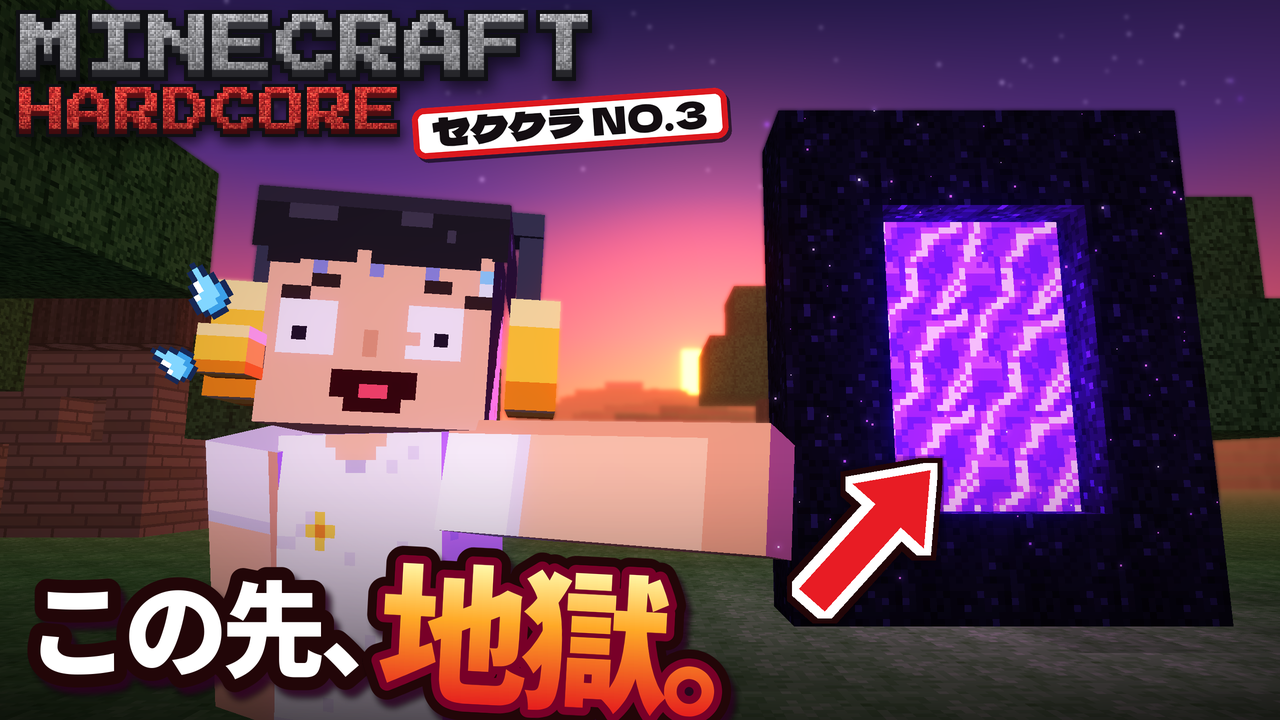
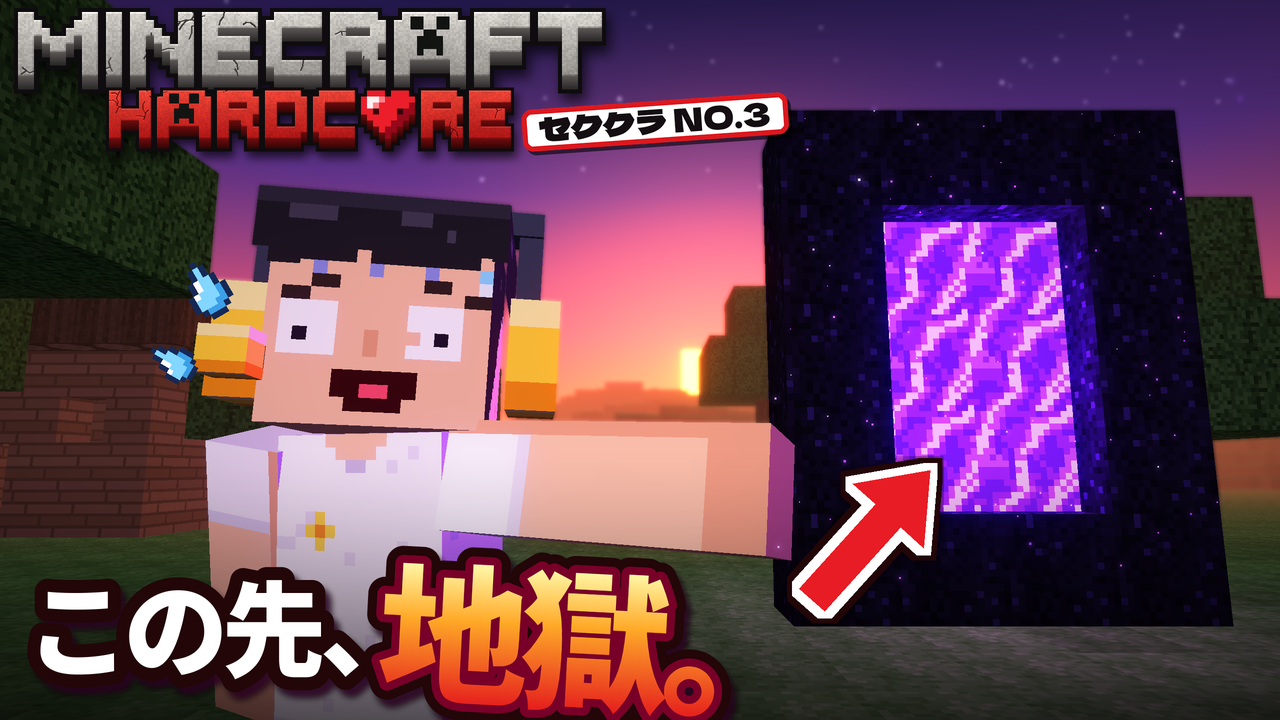
NO.3 の英字タイトルを、ひびの入った石の立体ロゴ風に作り直し
- 「MINECRAFT」を太いブロック文字＋下向きの厚み＋黒フチ＋ひびの入った石の質感に
- A の中にクリーパーの顔、赤い「HARDCORE」の O はハードコアのハートに
- HARDCORE は MINECRAFT の下のまん中に置き、セククラ NO.3 のバッジを少し小さくしてゲートにかからないように
- 使わなくなったドットフォント（Press Start 2P）と古い石ブロック文字のコードを削除

Claude-Session: https://claude.ai/code/session_01ARLGywnTjgvutUHsht7TWK

Changed region(s): [[0.0, 0.0, 0.625, 0.2444]]

diff --git a/sekunuyu-thumbnail/lib/overlay.py b/sekunuyu-thumbnail/lib/overlay.py
@@ -218,66 +218,165 @@ def arrow(c: Image.Image, start, end, width: int, head_len: int, head_w: int, fi
     c.alpha_composite(layer, (max(0, x0), max(0, y0)), (max(0, -x0), max(0, -y0)))
 
 
-STONE = [(118, 118, 122), (134, 134, 138), (150, 150, 154), (168, 168, 172)]
-RED_STONE = [(150, 26, 30), (176, 36, 38), (204, 52, 48), (228, 78, 64)]
+# ---------------------------------------------------------------- マイクラ風のロゴ文字（ひびの入った石＋厚み＋黒フチ）
+
+# 1マス単位の太いブロック文字（高さ 8 マス・線の太さ 2 マス）。A は上を四角くして、そこにクリーパーの顔を描く
+LOGO_LETTERS = {
+    "M": ["##......##", "###....###", "####..####", "##.####.##", "##..##..##", "##......##", "##......##",
+          "##......##"],
+    "I": ["##"] * 8,
+    "N": ["##....##", "###...##", "####..##", "##.##.##", "##..####", "##...###", "##....##", "##....##"],
+    "E": ["#######", "#######", "##.....", "######.", "######.", "##.....", "#######", "#######"],
+    "C": [".######", "#######", "##.....", "##.....", "##.....", "##.....", "#######", ".######"],
+    "R": ["######.", "#######", "##...##", "#######", "######.", "##..##.", "##...##", "##...##"],
+    "A": [".#######.", "#########", "#########", "#########", "#########", "#########", "##.....##",
+          "##.....##"],
+    "F": ["#######", "#######", "##.....", "######.", "######.", "##.....", "##.....", "##....."],
+    "T": ["########", "########", "...##...", "...##...", "...##...", "...##...", "...##...", "...##..."],
+    "H": ["##...##", "##...##", "##...##", "#######", "#######", "##...##", "##...##", "##...##"],
+    "D": ["######.", "#######", "##...##", "##...##", "##...##", "##...##", "#######", "######."],
+    "O": [".#####.", "#######", "##...##", "##...##", "##...##", "##...##", "#######", ".#####."],
+}
+# クリーパーの顔（6×6）
+LOGO_CREEPER = ["##..##", "##..##", "..##..", ".####.", ".####.", ".#..#."]
+# ハードコアのハート（9×8）。r=赤 R=濃い赤 w=光 p=うすい赤 d=ハードコアの黒い目
+LOGO_HEART = [
+    ".rrr.rrr.",
+    "rwwprrrrr",
+    "rwprrrrrR",
+    "rrdrrrdRR",
+    ".rrrrrRR.",
+    "..rrrRR..",
+    "...rRR...",
+    "....R....",
+]
+LOGO_HEART_COLORS = {"r": (236, 30, 42), "R": (150, 8, 26), "w": (255, 240, 240), "p": (255, 128, 136),
+                     "d": (54, 4, 12)}
 
 
-def block_title(c: Image.Image, xy, text: str, font_path: str, cell: int, colors=STONE, extrude: int = 0,
-                outline_w: int = 0, side=(52, 52, 58), outline=(16, 16, 20, 255), seed: int = 0) -> tuple:
-    """ドット1つを石ブロック1個にして組んだ英字（マイクラ風の立体タイトル）。xy は左上。戻り値は描いた範囲。"""
+def _shift(m: np.ndarray, dy: int, dx: int) -> np.ndarray:
+    """配列を (dy, dx) だけずらす（はみ出た所は 0）。"""
+    out = np.zeros_like(m)
+    H, W = m.shape[:2]
+    out[max(0, dy):H + min(0, dy), max(0, dx):W + min(0, dx)] = \
+        m[max(0, -dy):H - max(0, dy), max(0, -dx):W - max(0, dx)]
+    return out
+
+
+def _logo_cracks(stone: np.ndarray, u: int, n: int, rng) -> tuple[np.ndarray, np.ndarray]:
+    """石の面に入れるひび（枝分かれする折れ線）。戻り値：ひびの線・そのすぐ下の明るい線"""
+    H, W = stone.shape
+    dark, light = Image.new("L", (W, H), 0), Image.new("L", (W, H), 0)
+    dd, dl = ImageDraw.Draw(dark), ImageDraw.Draw(light)
+    lw = max(2, round(u / 5))
+    ys, xs = np.nonzero(stone)
+
+    def walk(x, y, ang, steps):
+        pts = [(x, y)]
+        for _ in range(steps):
+            ang += rng.uniform(-0.9, 0.9)
+            x, y = x + np.cos(ang) * rng.uniform(0.45, 0.9) * u, y + np.sin(ang) * rng.uniform(0.45, 0.9) * u
+            pts.append((x, y))
+            if rng.random() < 0.3:
+                walk(x, y, ang + rng.choice([-1.2, 1.2]), int(rng.integers(1, 3)))
+        dd.line(pts, fill=255, width=lw)
+        dl.line([(px, py + lw) for px, py in pts], fill=255, width=max(1, lw // 2))
+
+    for _ in range(n):
+        j = rng.integers(len(xs))
+        walk(float(xs[j]), float(ys[j]), rng.uniform(0, 2 * np.pi), int(rng.integers(3, 6)))
+    cr = (np.asarray(dark) > 0) & stone
+    return cr, (np.asarray(light) > 0) & stone & ~cr
+
+
+def logo_size(word: str, unit: int, depth: float = 1.7, outline_w: float = 0.5,
+              heart_for: str | None = None) -> tuple[int, int]:
+    """logo_title で描く範囲の大きさ (幅, 高さ)。"""
+    E, O = int(round(depth * unit)), max(2, int(np.ceil(outline_w * unit)))
+    cols = sum(len((LOGO_HEART if ch == heart_for else LOGO_LETTERS[ch])[0]) for ch in word) + len(word) - 1
+    return cols * unit + 2 * O, 8 * unit + E + 2 * O
+
+
+def logo_title(c: Image.Image, xy, word: str, unit: int, front=((218, 214, 208), (156, 152, 148)),
+               side=(92, 88, 86), crack=(66, 62, 60), outline=(14, 12, 14, 255), depth: float = 1.7,
+               outline_w: float = 0.5, heart_for: str | None = None, creeper_in: str | None = "A",
+               seed: int = 0) -> tuple:
+    """マイクラ風のロゴ文字：ひびの入った石の太いブロック文字＋下向きの厚み＋黒フチ。unit は1マスの大きさ(px)。
+    heart_for の文字はハートに置きかえ、creeper_in の文字にはクリーパーの顔を描く。戻り値は描いた範囲。"""
     from scipy import ndimage as ndi
-    f = ImageFont.truetype(font_path, 8)
-    bb = f.getbbox(text)
-    im = Image.new("L", (bb[2] - bb[0] + 4, bb[3] - bb[1] + 4), 0)
-    d = ImageDraw.Draw(im)
-    d.fontmode = "1"
-    d.text((2 - bb[0], 2 - bb[1]), text, font=f, fill=255)
-    bm = np.asarray(im) > 0
-    ys, xs = np.nonzero(bm)
-    bm = bm[ys.min():ys.max() + 1, xs.min():xs.max() + 1]
-    h, w = bm.shape
+    u = unit
     rng = np.random.default_rng(seed)
-    # 石の模様（ブロックごとに少し明るさを変えて、細かいつぶつぶを入れる）
-    sub = max(2, cell // 4)
-    speck = rng.random((h * cell // sub + 1, w * cell // sub + 1)).repeat(sub, 0).repeat(sub, 1)[:h * cell, :w * cell]
-    pal = np.array(colors, float)
-    face = pal[np.clip((speck * len(pal)).astype(int), 0, len(pal) - 1)]
-    face *= (0.9 + 0.2 * rng.random((h, w))).repeat(cell, 0).repeat(cell, 1)[..., None]
-    # ブロックのふち（上と左は明るく、下と右は暗く）
-    yy, xx = np.mgrid[0:h * cell, 0:w * cell]
-    by, bx = yy % cell, xx % cell
-    bev = max(1, cell // 6)
-    face = np.where(((by < bev) | (bx < bev))[..., None], np.minimum(face * 1.1 + 8, 255), face)
-    face = np.where(((by >= cell - bev) | (bx >= cell - bev))[..., None], face * 0.84, face)
-    face *= np.linspace(1.12, 0.86, h * cell)[:, None, None]   # 上が明るい
-    face = np.clip(face, 0, 255)
-    on = bm.repeat(cell, 0).repeat(cell, 1)
-    E, O = extrude, outline_w
-    Hc, Wc = h * cell + E + 2 * O, w * cell + 2 * O
-    sil = np.zeros((Hc, Wc), bool)
-    sil[O:O + h * cell, O:O + w * cell] = on
-    ext = sil.copy()
-    for k in range(1, E + 1):  # 下に厚みを出す
-        ext[k:] |= sil[:-k]
-    outl = ndi.binary_dilation(ext, structure=np.ones((3, 3), bool), iterations=O) if O else ext
+    E, O = int(round(depth * u)), max(2, int(np.ceil(outline_w * u)))
+    glyphs = [LOGO_HEART if ch == heart_for else LOGO_LETTERS[ch] for ch in word]
+    Wc, Hc = logo_size(word, u, depth, outline_w, heart_for)
+    # 文字を 1 マスずつあけて並べる
+    face = np.zeros((Hc, Wc), bool)
+    heart = np.zeros((Hc, Wc), bool)
+    heart_rgb = np.zeros((Hc, Wc, 3), np.uint8)
+    creeper = np.zeros((Hc, Wc), bool)
+    x = O
+    for ch, g in zip(word, glyphs):
+        w = len(g[0])
+        for r, row in enumerate(g):
+            for q, p in enumerate(row):
+                if p == ".":
+                    continue
+                cell = (slice(O + r * u, O + (r + 1) * u), slice(x + q * u, x + (q + 1) * u))
+                face[cell] = True
+                if g is LOGO_HEART:
+                    heart[cell] = True
+                    heart_rgb[cell] = LOGO_HEART_COLORS[p]
+        if ch == creeper_in:   # 上の四角い所（6 マス）のまん中に顔
+            f = max(2, int(round(0.8 * u)))
+            cx, cy = x + (w * u - 6 * f) // 2, O + (6 * u - 6 * f) // 2
+            pat = np.array([[p == "#" for p in row] for row in LOGO_CREEPER])
+            creeper[cy:cy + 6 * f, cx:cx + 6 * f] = pat.repeat(f, 0).repeat(f, 1)
+        x += (w + 1) * u
+    # 下向きの厚み（面からの距離もおぼえておく）と黒フチ
+    ext = face.copy()
+    dist = np.zeros((Hc, Wc))
+    for k in range(1, E + 1):
+        s = _shift(face, k, 0)
+        dist[s & ~ext] = k
+        ext |= s
+    outl = ndi.binary_dilation(ext, structure=np.ones((3, 3), bool), iterations=O)
     arr = np.zeros((Hc, Wc, 4), np.uint8)
     arr[outl] = outline
-    sidek = np.linspace(1.15, 0.7, Hc)[:, None, None]
-    side_rgb = np.clip(np.array(side, float)[None, None, :] * sidek, 0, 255)
-    side_mask = ext & ~sil
-    arr[..., :3][side_mask] = np.broadcast_to(side_rgb, (Hc, Wc, 3))[side_mask].astype(np.uint8)
-    arr[..., 3][side_mask] = 255
-    fm = np.zeros((Hc, Wc, 3), float)
-    fm[O:O + h * cell, O:O + w * cell] = face
-    arr[..., :3][sil] = fm[sil].astype(np.uint8)
-    arr[..., 3][sil] = 255
-    layer = Image.fromarray(arr, "RGBA")
+    sm = ext & ~face
+    side_rgb = np.array(side, float)[None, None, :] * (1.0 - 0.55 * dist / max(1, E))[..., None]
+    arr[sm, :3] = np.clip(side_rgb[sm], 0, 255).astype(np.uint8)
+    arr[sm, 3] = 255
+    # 正面：上から下へのグラデーション＋ドット絵っぽいざらつき＋大きなまだら
+    t = np.clip((np.arange(Hc, dtype=float) - O) / (8 * u), 0, 1)[:, None, None]
+    col = np.broadcast_to(np.array(front[0], float) * (1 - t) + np.array(front[1], float) * t, (Hc, Wc, 3)).copy()
+    tx = max(2, u // 4)
+    speck = rng.random((Hc // tx + 1, Wc // tx + 1)).repeat(tx, 0).repeat(tx, 1)[:Hc, :Wc]
+    col *= (0.93 + 0.1 * np.floor(speck * 4) / 3)[..., None]
+    blot = Image.fromarray((rng.random((Hc // (2 * u) + 2, Wc // (2 * u) + 2)) * 255).astype(np.uint8))
+    col *= (0.94 + 0.1 * np.asarray(blot.resize((Wc, Hc), Image.BILINEAR), float) / 255)[..., None]
+    # ふちの面取り（上と左は明るく、右と下は暗く）
+    b = max(2, u // 5)
+    col[face & ~_shift(face, 0, b)] *= 1.06
+    col[face & ~_shift(face, 0, -b)] *= 0.88
+    col[face & ~_shift(face, -b, 0)] *= 0.76
+    top = face & ~_shift(face, b, 0)
+    col[top] = col[top] * 1.14 + 14
+    # ひび
+    cr, cl = _logo_cracks(face & ~heart & ~creeper, u, len(word) + 2, rng)
+    col[cl] = col[cl] * 1.16 + 18
+    col[cr] = crack
+    arr[face, :3] = np.clip(col[face], 0, 255).astype(np.uint8)
+    arr[face, 3] = 255
+    arr[heart, :3] = heart_rgb[heart]
+    arr[creeper, :3] = (18, 20, 18)
+    img = Image.fromarray(arr, "RGBA")
     # やわらかい影
-    m = 4 * max(1, O)
+    m = 3 * O
     sh = Image.new("RGBA", (Wc + 2 * m, Hc + 2 * m), (0, 0, 0, 0))
-    sh.paste(Image.new("RGBA", (Wc, Hc), (0, 0, 0, 160)), (m, m), Image.fromarray((outl * 255).astype(np.uint8)))
+    sh.paste(Image.new("RGBA", (Wc, Hc), (0, 0, 0, 170)), (m, m), Image.fromarray((outl * 255).astype(np.uint8)))
     sh = sh.filter(ImageFilter.GaussianBlur(m / 2))
     x, y = int(xy[0]), int(xy[1])
-    c.alpha_composite(sh, (max(0, x - m + O), max(0, y - m + 2 * O)))
-    c.alpha_composite(layer, (x, y))
+    sx, sy = x - m + O, y - m + 2 * O
+    c.alpha_composite(sh, (max(0, sx), max(0, sy)), (max(0, -sx), max(0, -sy)))
+    c.alpha_composite(img, (x, y))
     return (x, y, x + Wc, y + Hc)

diff --git a/sekunuyu-thumbnail/episodes/ep03_portal.py b/sekunuyu-thumbnail/episodes/ep03_portal.py
@@ -205,12 +205,15 @@ def compose(art: Image.Image, S: int) -> Image.Image:
     band = np.zeros((h, c.width, 4), np.uint8)
     band[..., 3] = grad.astype(np.uint8)[:, None]
     c.alpha_composite(Image.fromarray(band, "RGBA"))
-    # 左上：石ブロックで組んだ英字タイトル＋シリーズ名と番号
-    b1 = ov.block_title(c, (16 * S, 10 * S), TEXT["title1"], fonts.PIXEL, 8 * S, extrude=7 * S, outline_w=4 * S)
-    b2 = ov.block_title(c, (16 * S, b1[3] + 3 * S), TEXT["title2"], fonts.PIXEL, 6 * S, colors=ov.RED_STONE,
-                        extrude=5 * S, outline_w=3 * S, side=(90, 16, 20), seed=3)
-    ov.badge(c, (b2[2] + 10 * S, b2[1] + 2 * S), TEXT["badge"], ov.font(fonts.DELA, 38 * S), pad=(14 * S, 4 * S),
-             border=6 * S, radius=12 * S, rotate=4)
+    # 左上：ひびの入った石の英字タイトル（A にクリーパーの顔、HARDCORE の O はハート）＋シリーズ名と番号
+    w1, _ = ov.logo_size(TEXT["title1"], 8 * S)
+    w2, _ = ov.logo_size(TEXT["title2"], 6 * S, heart_for="O")
+    b1 = ov.logo_title(c, (14 * S, 8 * S), TEXT["title1"], 8 * S, seed=2)
+    b2 = ov.logo_title(c, (b1[0] + (w1 - w2) // 2, b1[3] - 6 * S), TEXT["title2"], 6 * S,
+                       front=((246, 70, 56), (178, 22, 22)), side=(112, 12, 14), crack=(98, 12, 12),
+                       heart_for="O", seed=5)
+    ov.badge(c, (b2[2] + 6 * S, b2[1] + 3 * S), TEXT["badge"], ov.font(fonts.DELA, 32 * S), pad=(12 * S, 3 * S),
+             border=5 * S, radius=10 * S, rotate=4)
     # フック（大きく）
     hb1 = ov.fx_text(c, (26 * S, 548 * S), TEXT["hook1"], ov.font(fonts.BLACK, 104 * S), (255, 255, 255, 255),
                      strokes=[(13 * S, dark)], shadow=(6 * S, 8 * S, (40, 0, 30, 220), 3 * S), spacing=-6 * S)

diff --git a/sekunuyu-thumbnail/lib/fonts.py b/sekunuyu-thumbnail/lib/fonts.py
@@ -10,12 +10,10 @@ FONT_DIR = os.path.join(os.path.dirname(os.path.dirname(os.path.abspath(__file__
 FONTS = {
     "NotoSansJP-Black.ttf": "Noto+Sans+JP:wght@900",
     "DelaGothicOne-Regular.ttf": "Dela+Gothic+One",
-    "PressStart2P-Regular.ttf": "Press+Start+2P",
 }
 
 BLACK = os.path.join(FONT_DIR, "NotoSansJP-Black.ttf")
 DELA = os.path.join(FONT_DIR, "DelaGothicOne-Regular.ttf")
-PIXEL = os.path.join(FONT_DIR, "PressStart2P-Regular.ttf")   # 英字のブロック文字の元にするドットフォント
 
 
 def ensure_fonts() -> None:
